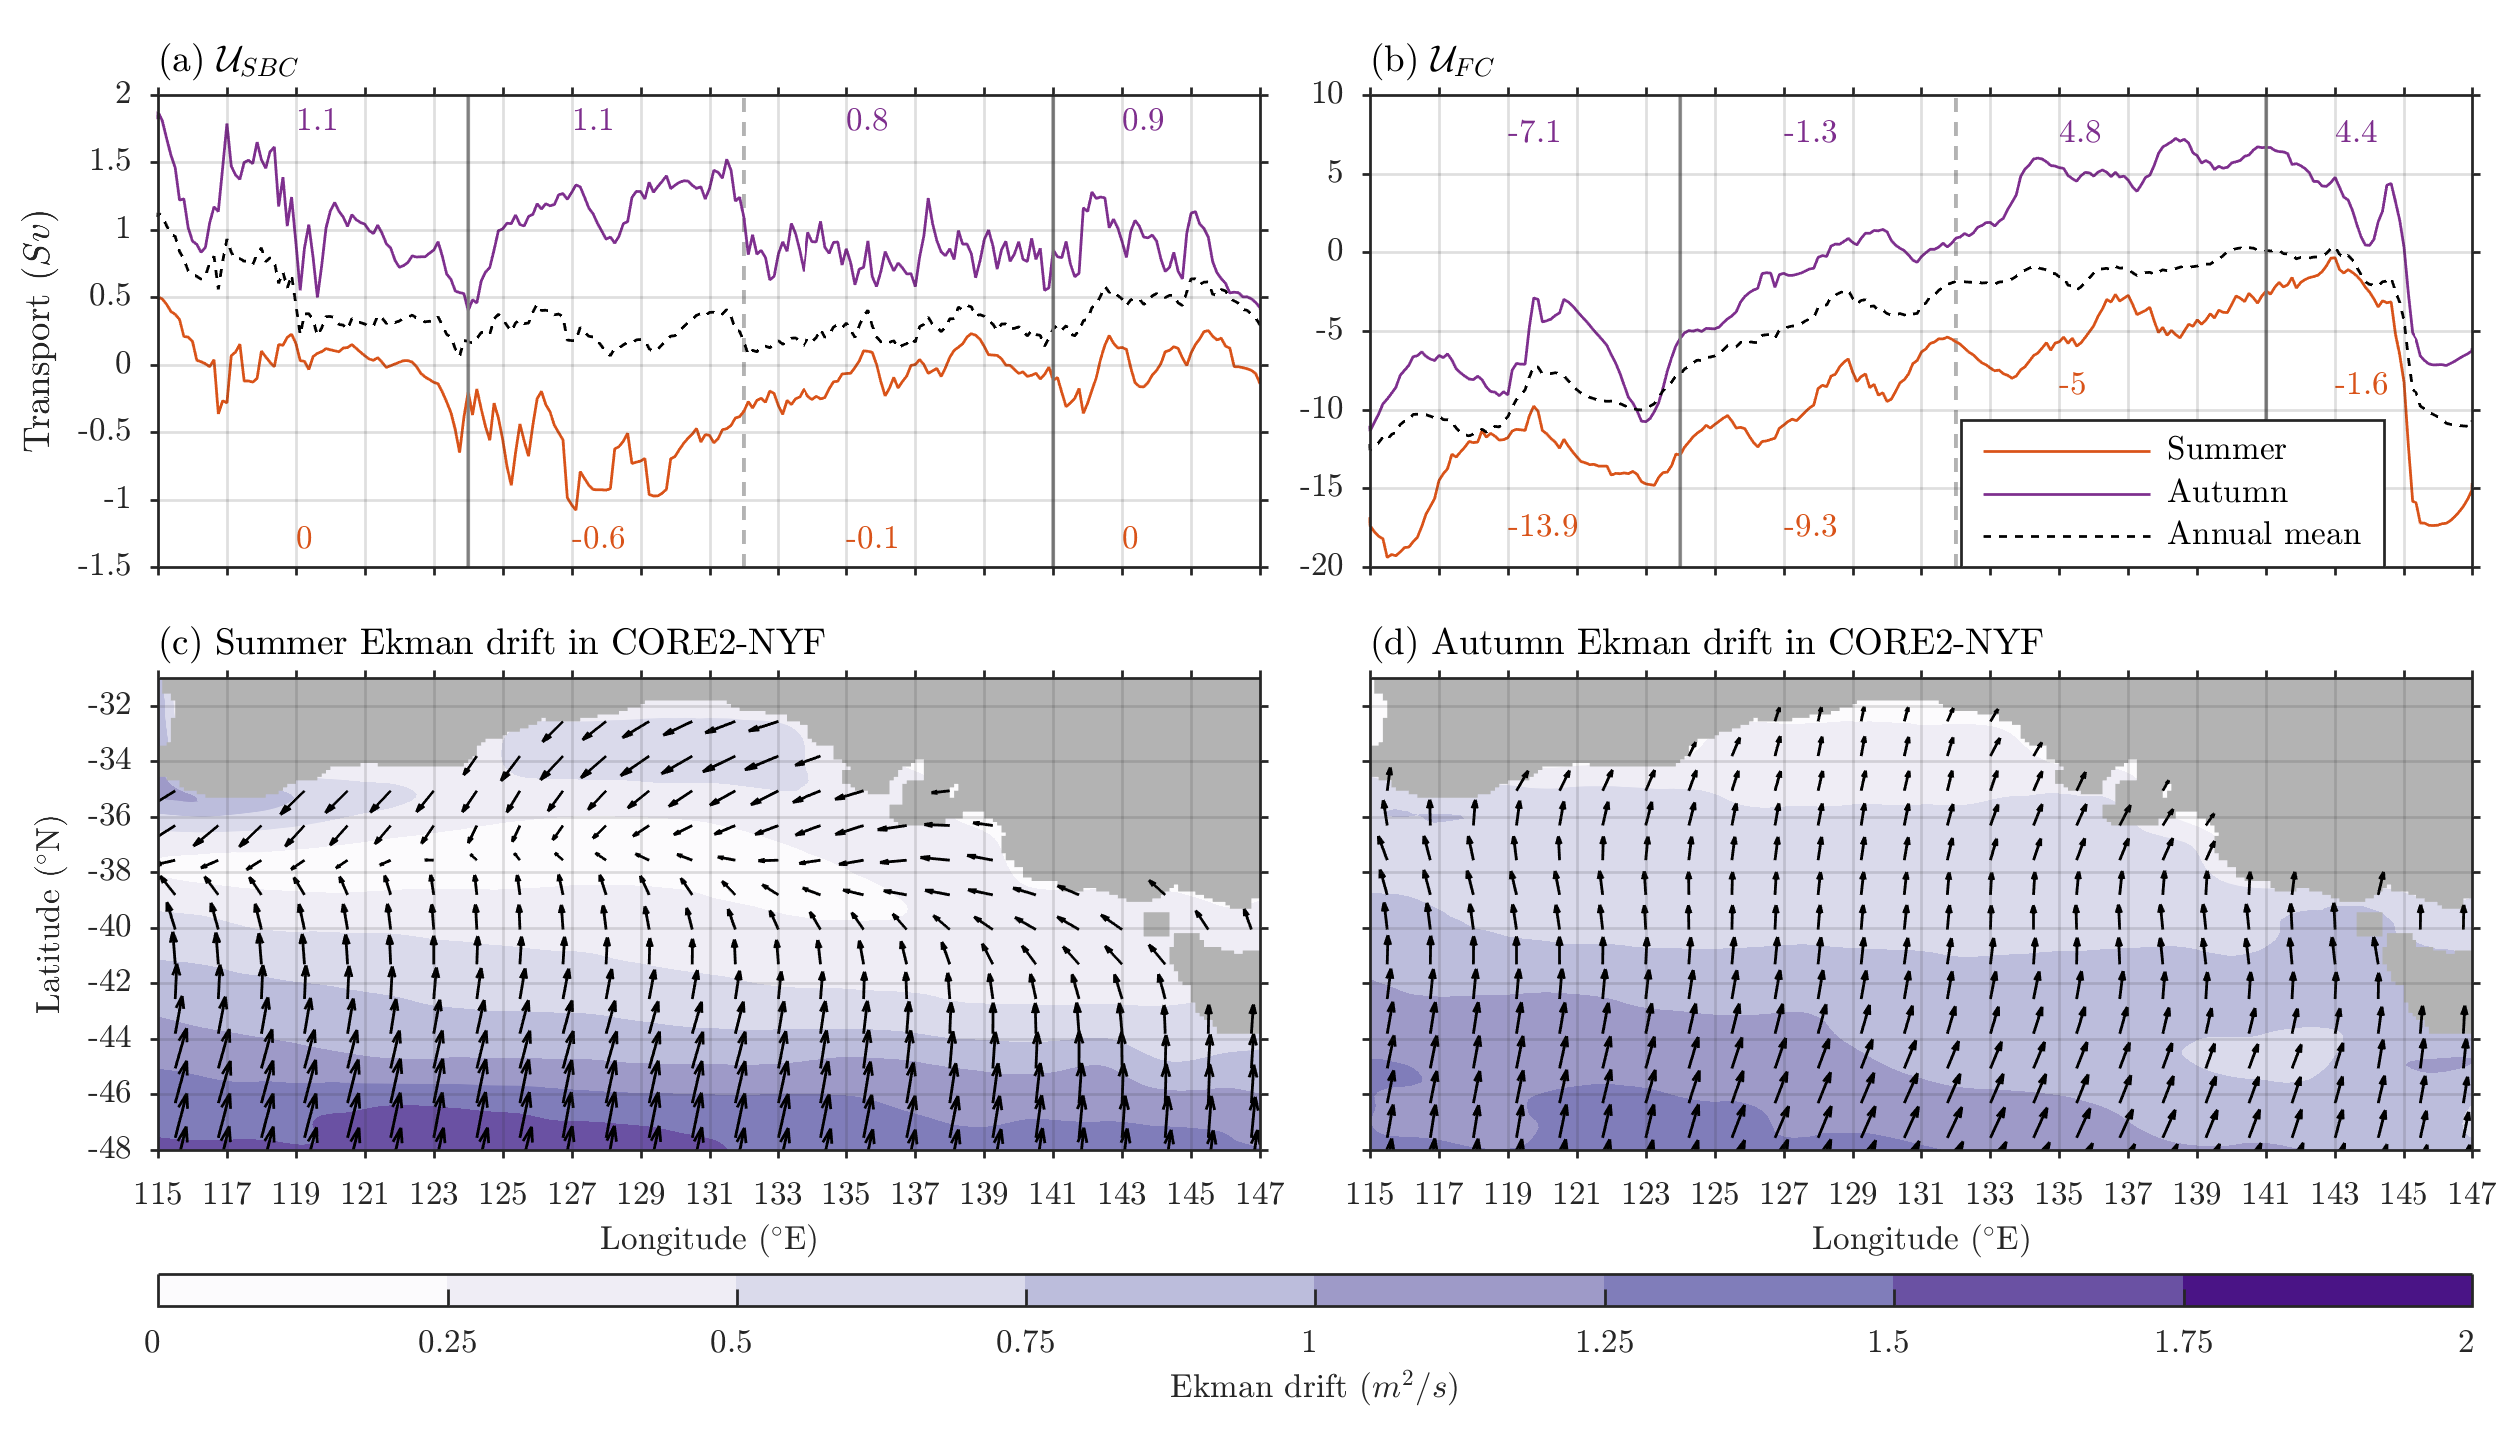
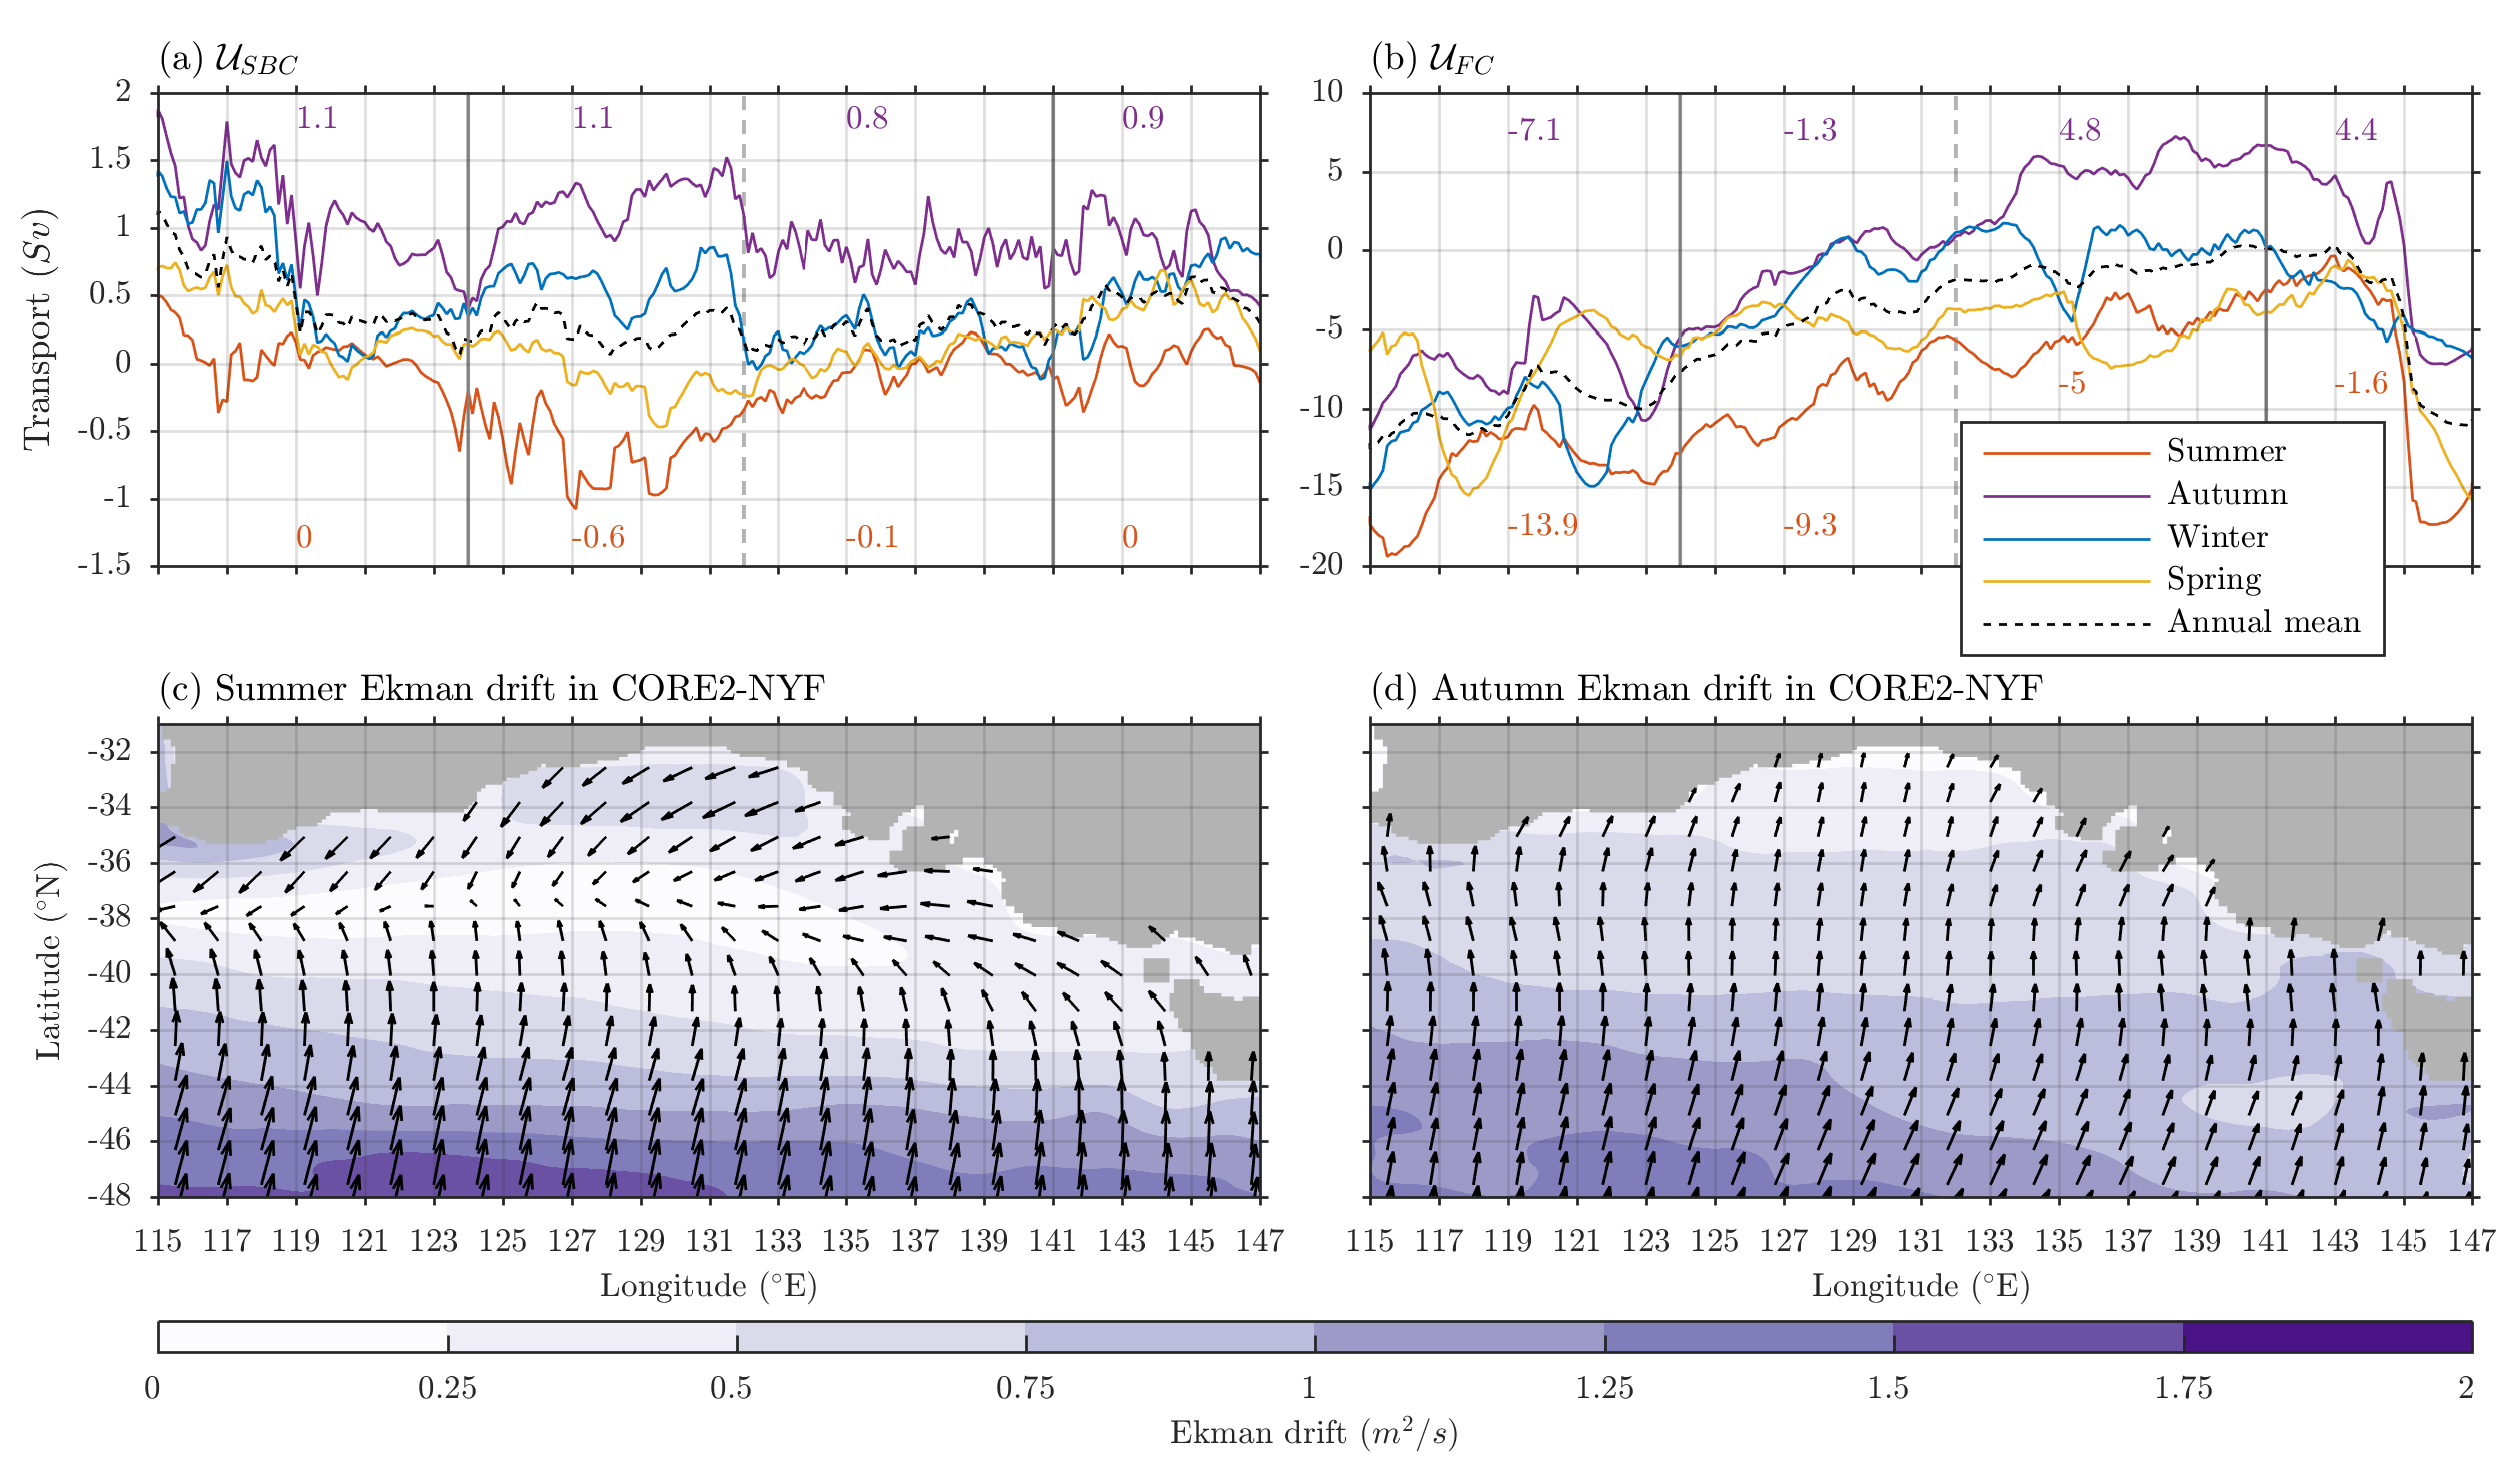
Finished revisions

Changed region(s): [[0.0, 0.4299, 0.9968, 0.9518], [0.0, 0.0307, 0.9968, 0.4299]]

diff --git a/name/main.tex b/name/main.tex
@@ -208,7 +208,7 @@ In this study we consider the SBC and FC as a system of currents and provide a c
 \end{itemize}
 Here, we propose the circulation off southern Australia, comprising the SBC, FC, coastal currents (over the shallow shelf) and onshore flows (from the ocean interior), be known as the Southern Australia Current System.
 
-The next section provides a description of the datasets (Section~\ref{Datasets}), the derivation of mass-conserving geostrophic velocities (Section~\ref{Geostrophic velocity derivation}), the volume definition of the SBC and FC (Section~\ref{SBC and FC definition}), and the derivation of a Southern Australia Current System transport budget (Section~\ref{Transport budget derivation}). Section~\ref{Results and Discussion} presents the results where the system three-dimensional structure is described in Section~\ref{Southern Australia Current System Structure} and the system transport budget is described in Section~\ref{Southern Australia Current System Transport Budget}. Finally, Section~\ref{Summary} summarizes the analysis and presents a closing discussion on the SBC and FC coupling and seasonality in Section~\ref{Closing discussion}.
+The next section provides a description of the datasets (Section~\ref{Datasets}), the derivation of mass-conserving geostrophic velocities (Section~\ref{Geostrophic velocity derivation}), the volume definition of the SBC and FC (Section~\ref{SBC and FC definition}), and the derivation of a Southern Australia Current System transport budget (Section~\ref{Transport budget derivation}). Section~\ref{Results and Discussion} presents the results where the system three-dimensional structure is described in Section~\ref{Southern Australia Current System Structure}, the transport budget in Section~\ref{Southern Australia Current System Transport Budget} and the SBC and FC coupling and seasonality in Section~\ref{Closing discussion}. Finally, Section~\ref{Summary} summarizes the analysis and presents a closing discussion.
 
 \section{Methodology} \label{Methodology}
 \subsection{Datasets} \label{Datasets}
@@ -379,7 +379,7 @@ The slope-FC is located around \SI{600}{\meter} and found in most sections along
 The offshore-FC also intensifies to the west towards Cape Leeuwin. The offshore-FC is either weaker or detached from the slope-FC where the shelf slant is strong (Portland and King island sections) and where the slope is gentle (eastern Bight section). While the shelf orientation and slope steepness may play a role in maintaining these FC components, the detachment between the slope-FC and the offshore-FC may indicate they are independent features occasionally merging and separating as the topography varies. Overall, the FC is strongest at Cape Pasley and Cape Leeuwin where it reaches mean speed up to \SI{10}{\centi\meter\per\second}, which agrees well with FC speed records from \citet{Cresswell1993}.
 
 One noticeable difference between CARS and MOM01 is at the Cape Leeuwin section. Here, in CARS, the FC weakens and splits producing another westward flow further offshore. In MOM01, this further offshore flow is eastward. 
-In the next sub-Section, we identify this vertically coherent eastward jet as the southern arm of the anti-cyclonic Albany High (\citeauthor{Middleton2003} \citeyear{Middleton2003}, \citeauthor{Middleton2007} \citeyear{Middleton2007}, \citeauthor{McCartney2007} \citeyear{McCartney2007}) clearly visible off Cape Leeuwin and Pasley in MOM01 (and, off Cape Pasley in CARS too).
+In the next sub-Section, we identify this vertically coherent eastward jet as the southern arm of the anti-cyclonic Albany High (\citeauthor{Middleton2003} \citeyear{Middleton2003}, \citeauthor{Middleton2007} \citeyear{Middleton2007}, \citeauthor{McCartney2007} \citeyear{McCartney2007}) clearly visible off Cape Leeuwin and Pasley in MOM01.
 
 \subsubsection{Depth-integrated velocity maps}\label{Depth-integrated velocity maps}
 We now examine the upper and lower layer velocity fields in depth-integrated velocity maps (Fig.\,\ref{f03_fig1_}). In CARS, the SBC eastward flow is interrupted by reversals, notably near Albany, between Cape Carnot and Cape Jaffa, and west of Tasmania (Fig.\,\ref{f03_fig1_}a). In addition to CARS caveats described in Section\,\ref{Datasets}, localised SBC reversals there may due to the mean field capturing some of the intense eddy activity over the shelf, which was observed in MOM01 on 5-day average timescales (not shown). Regardless, the SBC magnitude and width agree well between CARS and MOM01. In MOM01, the SBC flow is a narrow, continuous eastward boundary current (Fig.\,\ref{f03_fig1_}c).
@@ -489,7 +489,7 @@ Further inshore, there is a coupling between the SBC and offshore-FC which provi
     Long-term mean Ekman drift (\si{\square\meter\per\second}) estimated from (a) ERA-Interim winds and (b) CORE2-NYF winds (see Section~\ref{Datasets}). The magnitude of the Ekman drift is indicated by the shading. To illustrate weaker flows better, arrow lengths are proportional to the square root of the vector amplitudes.}
 \end{figure}
 
-The transport budget also revealed a coupling between the SBC and the slope-FC where the aforementioned Ekman drift is downwelled into the slope-FC\@. We examine maps of vertical flows along $z\sub{int}$ in MOM01 in Fig.\,\ref{f16_fig1_} to examine the spatial variability of the annual-mean downwellings along the coast. We note that we do not show the vertical velocities produced by the Zero-Divergence adjustment, neither in this Figure nor in Fig.\,\ref{f07_fig1_}. This is because the geostrophic calculation (before and after the Zero-Divergence adjustment) produces a noisy vertical-velocity field above complex bottom topography (evident in Fig.\,\ref{f04_fig1_}b,c in local reversal in accumulated upwellings/downwellings). Thus, these fields are useful only when integrated over a long distance as in our cumulative transport calculations. For example, the longshore integration of vertical velocities at the base of the SBC (Eq. \ref{eq:6}) reveals the vertical velocity that compensates the SBC flow above it.
+The transport budget also revealed a coupling between the SBC and the slope-FC where the aforementioned Ekman drift is downwelled into the slope-FC\@. We examine maps of vertical flows along $z\sub{int}$ in MOM01 in Fig.\,\ref{f16_fig1_} to examine the spatial variability of the annual-mean downwellings along the coast. We note that we do not show the vertical velocities produced by the Zero-Divergence adjustment, neither in this Figure nor in Fig.\,\ref{f07_fig1_}. This is because the geostrophic calculation (before and after the Zero-Divergence adjustment) produces a noisy vertical-velocity field above complex bottom topography (evident in Fig.\,\ref{f04_fig1_}b,c in local reversal in accumulated upwellings/downwellings). Thus, these fields are useful only when integrated over a long distance as in our cumulative transport calculations. For example, the longshore integration of vertical velocities at the SBC base (Eq. \ref{eq:6}) reveals the vertical velocity that compensates the SBC flow above it.
 %
 \begin{figure}[ht]
 \noindent\includegraphics
@@ -501,7 +501,7 @@ The transport budget also revealed a coupling between the SBC and the slope-FC w
 
 The vertical flows along the upper slope at \SI{-250}{\meter} are downwelling throughout the southern Australian shelves. The downwelling is strong where the slope is steep particularly outside the Great Australian Bight region. In the Bight, the slope is less steep and the downwelling is weaker. The primarily onshore direction of the Ekman drift is consistent with the downwelling found all along the coast. The downwelling is most pronounced in the Leeuwin Current Extension and Zeehan Current regions, where the onshore Ekman drift is strongest (Fig.\,\ref{f18_fig1_}). In the Bight and Gulf regions the Ekman drift curls anti-clockwise resulting in weak downwelling, which is further reduced in the Bight where the slope is less steep.
 
-Finally, there is also an inverse seasonal relationship between the SBC and the FC which we briefly discuss here. Fig.\,\ref{f19_fig1_} shows the summer and autumn states in MOM01 for the SBC transport ($\mathcal{U}\sub{SBC}$, Fig.\,\ref{f19_fig1_}a) and the FC transport ($\mathcal{U}\sub{FC}$, Fig.\,\ref{f19_fig1_}b). We show the summer and the autumn states only as they exhibit the strongest deviation from the annual-mean. Winter and spring states are much closer to the annual-mean (not shown). \citet{Oke2018} also found that the SBC are strongest in autumn, decrease in winter and spring and are weakest in summer. 
+Finally, there is also an inverse seasonal relationship between the SBC and the FC which we briefly discuss here. Fig.\,\ref{f19_fig1_} shows the summer and autumn states in MOM01 for the SBC transport ($\mathcal{U}\sub{SBC}$, Fig.\,\ref{f19_fig1_}a) and the FC transport ($\mathcal{U}\sub{FC}$, Fig.\,\ref{f19_fig1_}b). We show all seasons but analyse the summer and the autumn states only as they exhibit the strongest deviation from the annual-mean. \citet{Oke2018} also found that the SBC are strongest in autumn, decrease in winter and spring and are weakest in summer. 
 %
 \begin{figure}[p]
 \noindent\includegraphics
@@ -589,16 +589,14 @@ from the FC, which is in turn downwelled as $\mathcal{W}\sub{SBC} = \SI{-2}{Sv}$
 
 The annual-mean FC is weak or absent
 off the western Tasmanian shelf and Bass Strait
-as the Tasman Leakage carries
-away most of the FC transport (\SI{-11}{Sv})
-near South East Cape due westward into the South Australian Basin. The onshore flows along the slanted shelf are weak and result
+as the Tasman Leakage carries \SI{-11}{Sv} into the South Australian Basin interior with no direct retroflection into the FC off western Tasmania in our transport budget. The onshore flows along the slanted shelf are weak and result
 in only a weak increase to the FC transport (\SI{1.9}{Sv})
 in the eastern Great Australian Bight. When the shelf becomes zonal, the onshore flows are much stronger and
 accelerate the FC to
 \SI{7.8}{Sv} by Cape Carnot
 (the western end of the Bight)
 and to \SI{12.3}{Sv} by Cape Leeuwin.
-Overall, 2.5\% of the net onshore flows occur west of Tasmania, 17.8\% along the slanted shelf, 50\% (\SI{-5.9}{Sv})
+Overall, 20.5\% of the net onshore flows occur along the slanted shelf, 50\% (\SI{-5.9}{Sv})
 in the zonal Great Australian Bight,
 and 29.7\% in the zonal shelf region from Cape Carnot to Cape Leeuwin. Therefore, nearly 80\% of the onshore flow contribution to the FC increase occurs along the zonal shelf. Another \SI{+0.5}{Sv} net gain from the SBC comes from
 downwelling, which
